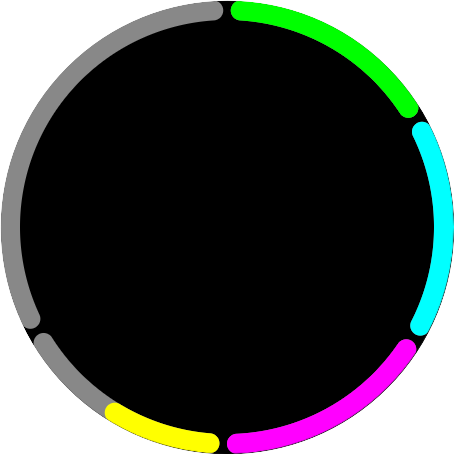
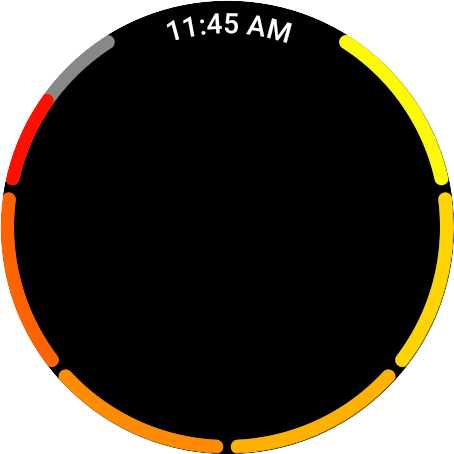
Updates screenshot for SegmentedProgressIndicator

Changed region(s): [[0.0, 0.0, 1.0, 1.0]]

diff --git a/README.md b/README.md
@@ -19,9 +19,9 @@ High quality prebuilt composables, such as Time and Date pickers.
 
 - [horologist-composables](./composables)
 
-DatePicker             |  TimePickerWith12HourClock |  TimePicker
-:-------------------------:|:-------------------------:|:-------------------------:
-<img src="https://raw.githubusercontent.com/google/horologist/main/docs/composables/date_picker.png" height="120" width="120" >  |  <img src="https://raw.githubusercontent.com/google/horologist/main/docs/composables/time_12h_picker.png" height="120" width="120"> | <img src="https://raw.githubusercontent.com/google/horologist/main/docs/composables/time_24h_picker.png" height="120" width="120">
+DatePicker             |  TimePickerWith12HourClock |  TimePicker |  SegmentedProgressIndicator
+:-------------------------:|:-------------------------:|:-------------------------:|:-------------------------:
+<img src="https://raw.githubusercontent.com/google/horologist/main/docs/composables/date_picker.png" height="120" width="120" >  |  <img src="https://raw.githubusercontent.com/google/horologist/main/docs/composables/time_12h_picker.png" height="120" width="120"> | <img src="https://raw.githubusercontent.com/google/horologist/main/docs/composables/time_24h_picker.png" height="120" width="120"> | <img src="https://raw.githubusercontent.com/google/horologist/main/docs/composables/segmented_progress_indicator.png" height="120" width="120">
 
 ## 📐 Compose Layout
 
